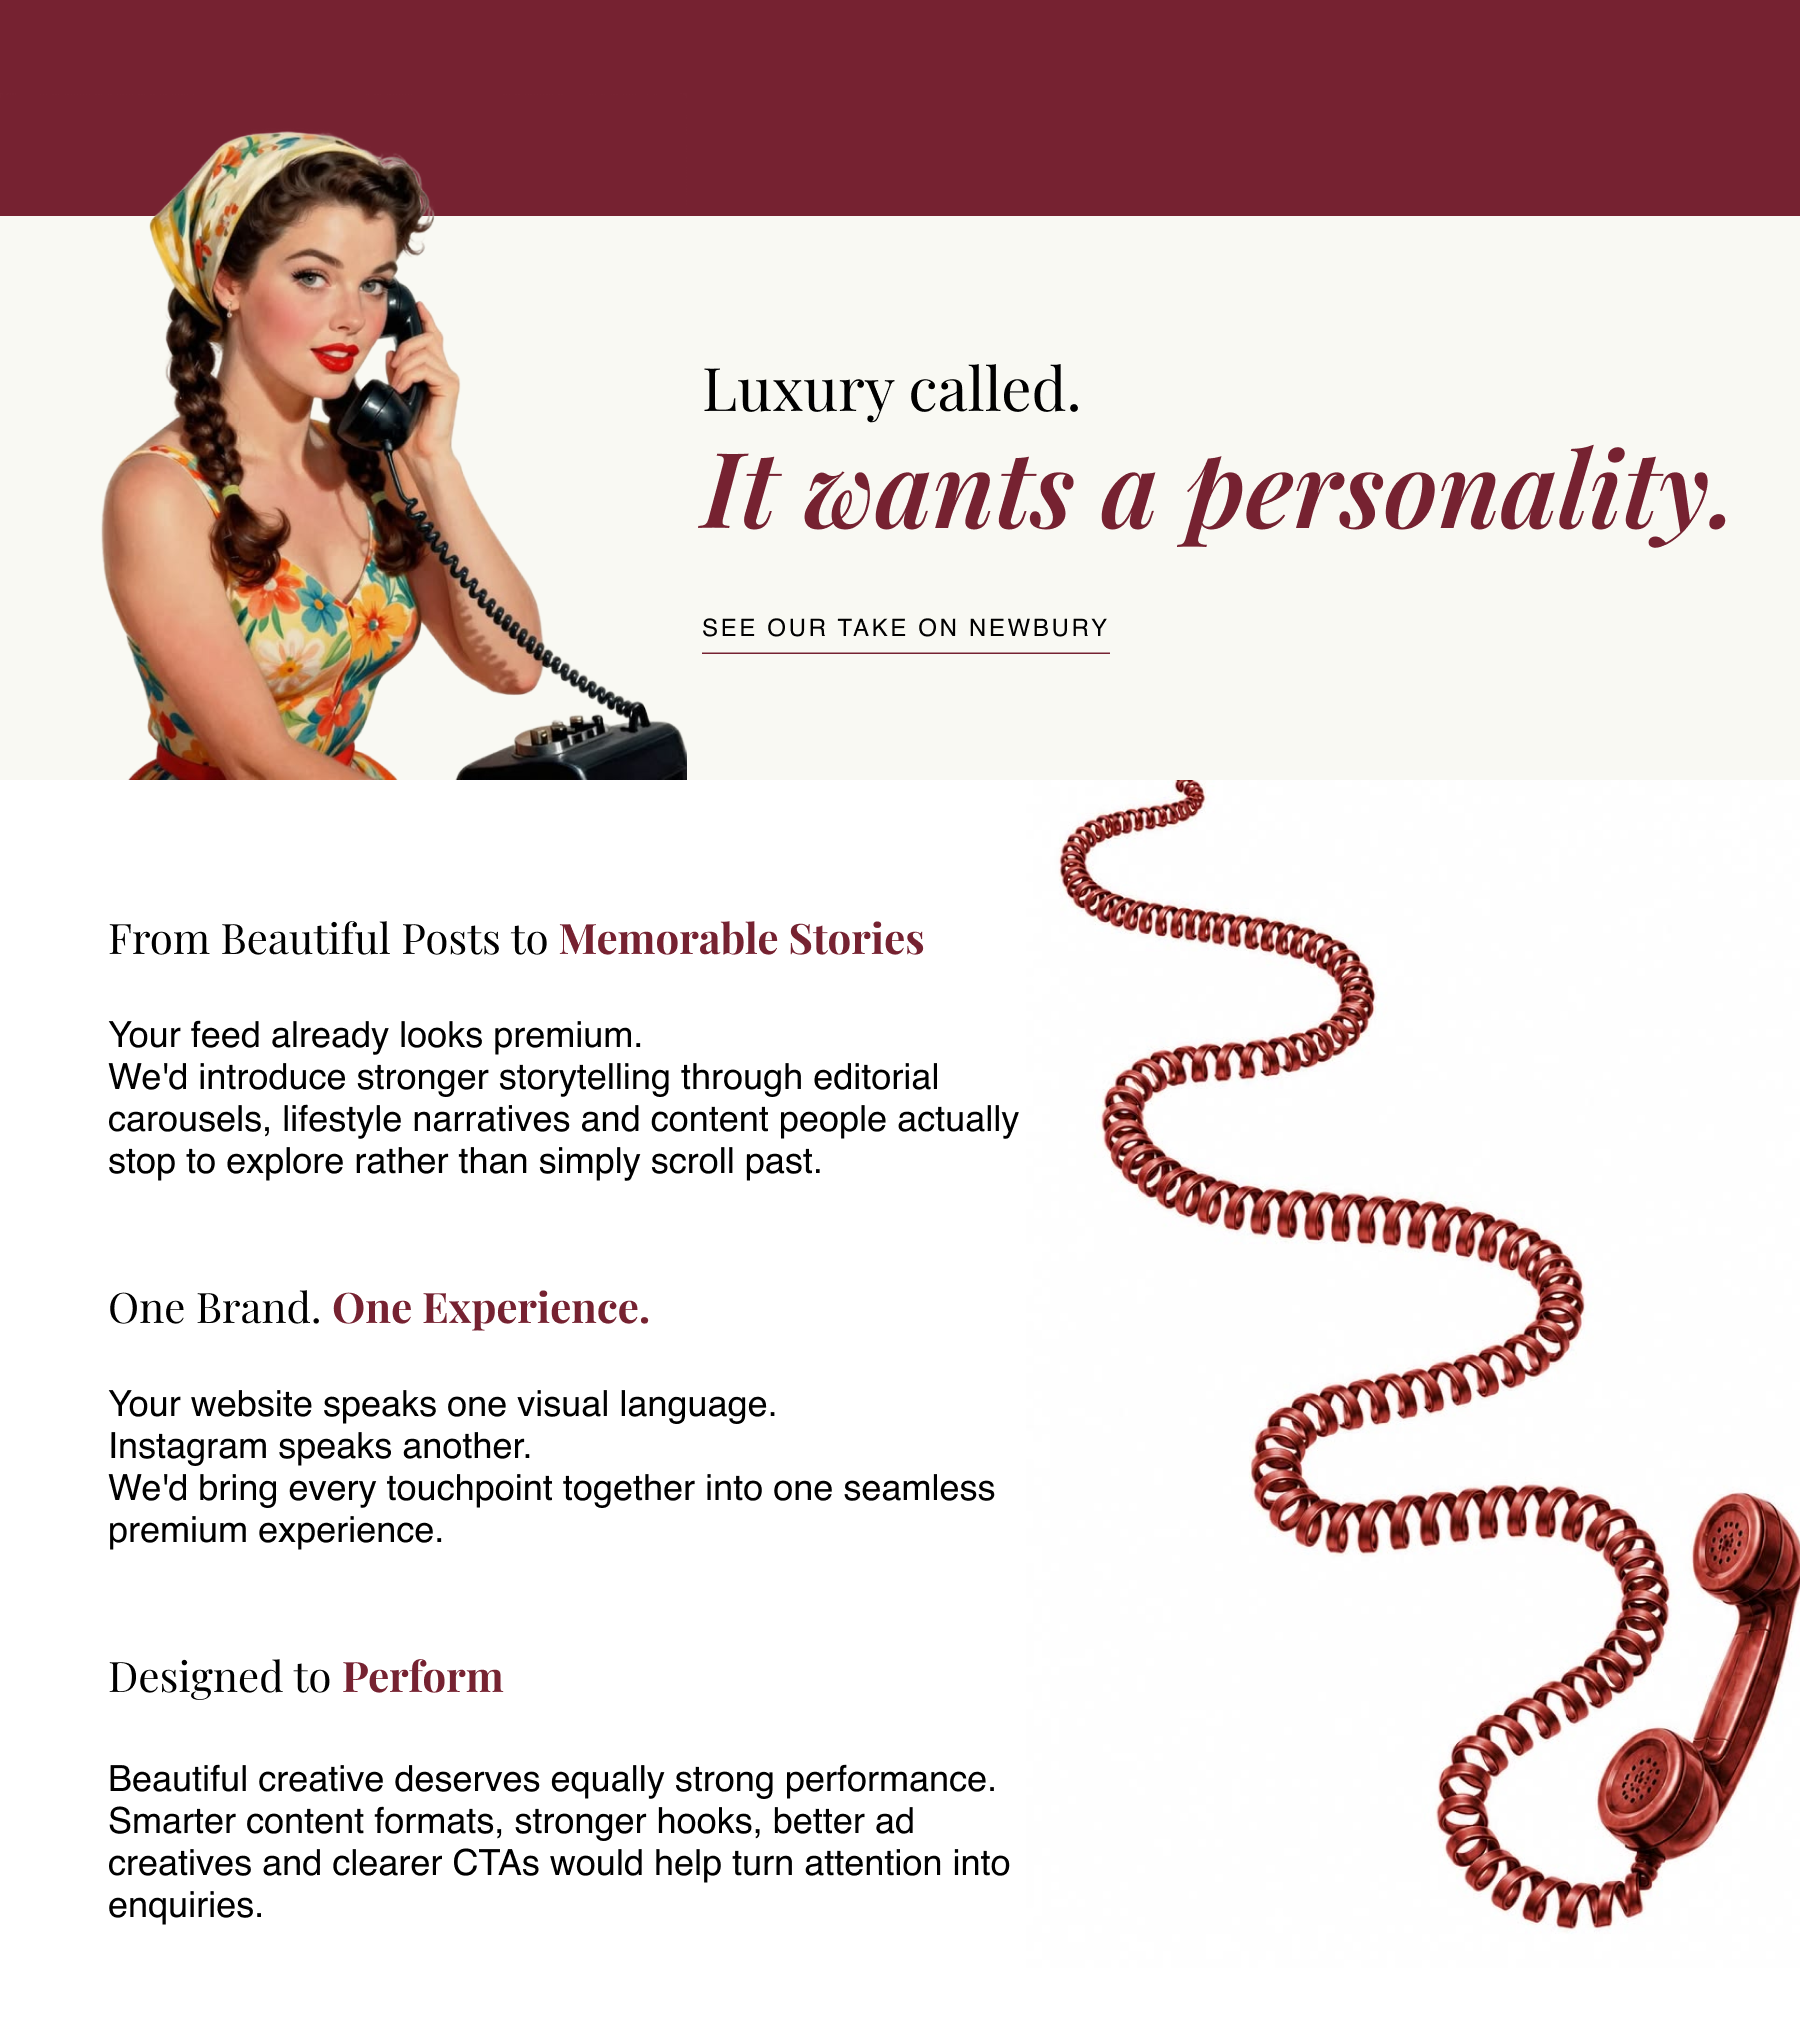
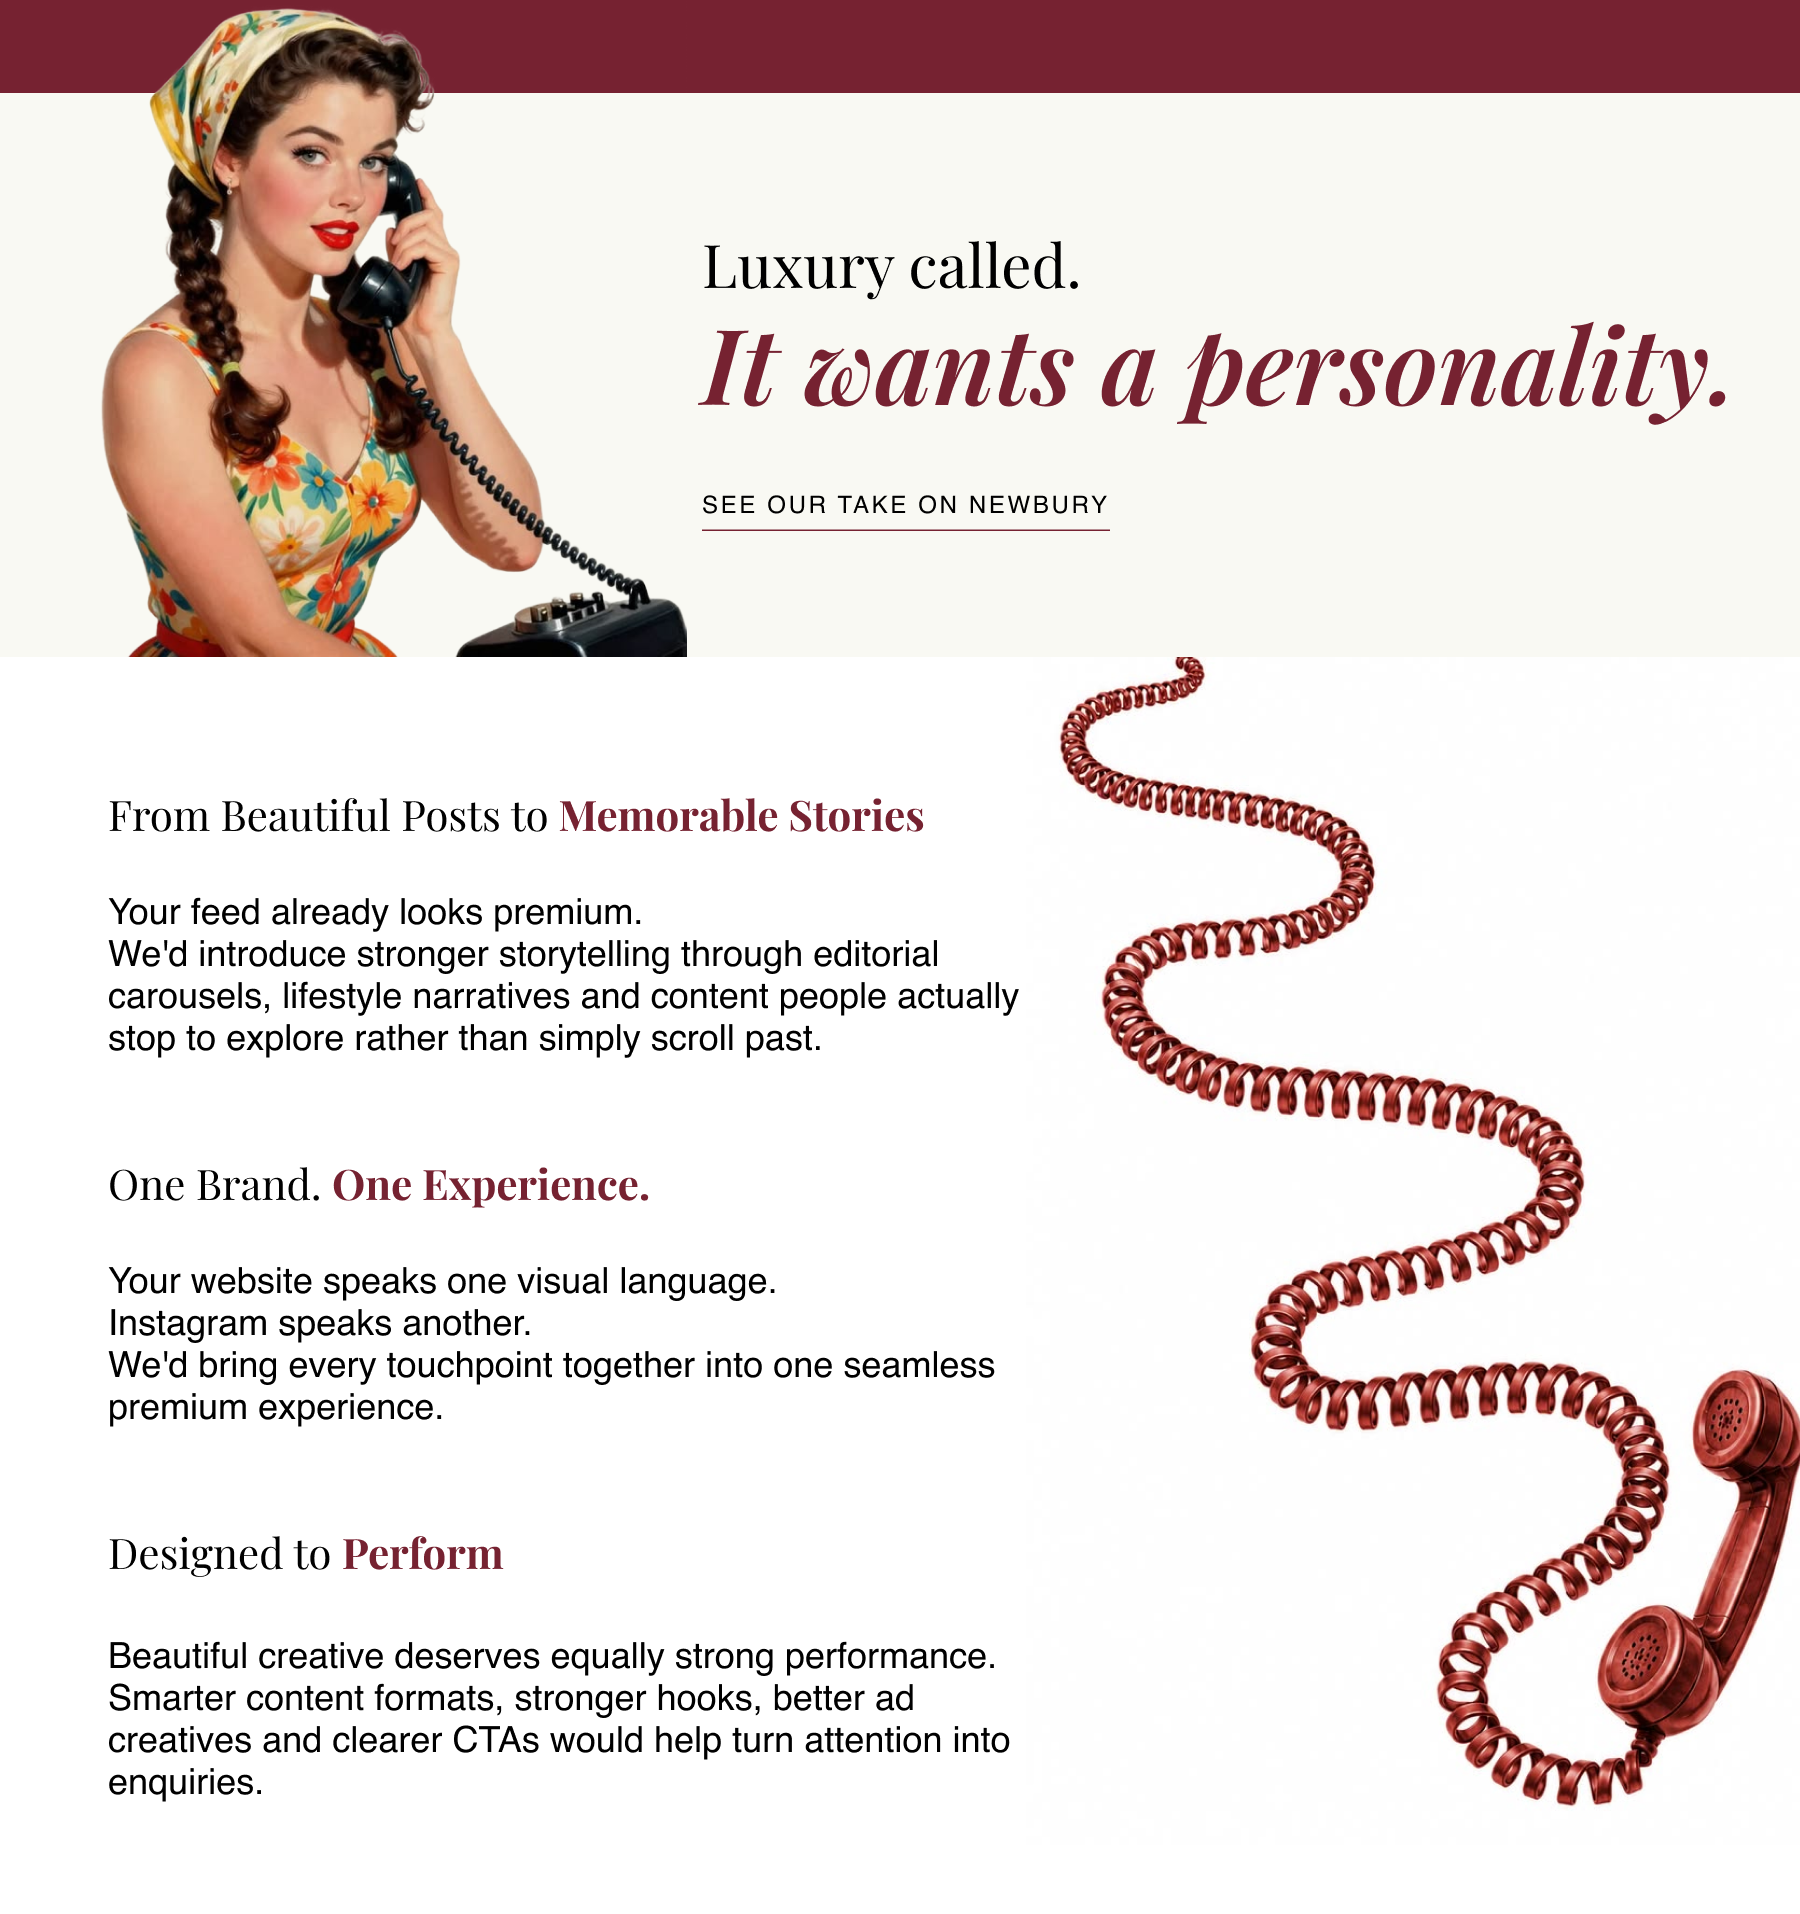
navbar added

diff --git a/tms-emailer.html b/tms-emailer.html
@@ -78,6 +78,57 @@ table, td { font-family: Arial, sans-serif; }
         <table role="presentation" class="email-container" width="600" cellpadding="0" cellspacing="0" border="0"
           align="center" style="width:600px; max-width:600px; background-color:#f4f1ea;overflow:hidden;">
 
+          <!-- Navbar --> 
+          <tr>
+            <td style="background-color:#762231; padding:20px 24px;">
+              <table role="presentation" width="100%" cellpadding="0" cellspacing="0" border="0">
+                <tr>
+                  <!-- Left links -->
+                  <td width="33%" align="left" valign="middle" style="vertical-align:middle;">
+                    <table role="presentation" cellpadding="0" cellspacing="0" border="0">
+                      <tr>
+                        <td valign="middle"
+                          style="vertical-align:middle; font-family:Arial, sans-serif; font-size:14px; line-height:22px; padding-right:20px;">
+                          <a href="https://themarketingsocials.com/about"
+                            style="color:#f4f1ea; text-decoration:none;">About</a>
+                        </td>
+                        <td valign="middle"
+                          style="vertical-align:middle; font-family:Arial, sans-serif; font-size:14px; line-height:22px;">
+                          <a href="https://themarketingsocials.com/services"
+                            style="color:#f4f1ea; text-decoration:none;">Services</a>
+                        </td>
+                      </tr>
+                    </table>
+                  </td>
+
+                  <!-- Center logo -->
+                  <td width="34%" align="center" valign="middle" style="vertical-align:middle;">
+                    <img src="tms-logo.png" width="150" alt="The Marketing Socials"
+                      style="display:block; width:150px; max-width:150px; height:auto; border:0; margin:0 auto;">
+                  </td>
+
+                  <!-- Right links -->
+                  <td width="33%" align="right" valign="middle" style="vertical-align:middle;">
+                    <table role="presentation" cellpadding="0" cellspacing="0" border="0" align="right">
+                      <tr>
+                        <td valign="middle"
+                          style="vertical-align:middle; font-family:Arial, sans-serif; font-size:14px; line-height:22px; padding-right:20px;">
+                          <a href="https://themarketingsocials.com/projects"
+                            style="color:#f4f1ea; text-decoration:none;">Projects</a>
+                        </td>
+                        <td valign="middle"
+                          style="vertical-align:middle; font-family:Arial, sans-serif; font-size:14px; line-height:22px;">
+                          <a href="https://themarketingsocials.com/contact"
+                            style="color:#f4f1ea; text-decoration:none;">Contact</a>
+                        </td>
+                      </tr>
+                    </table>
+                  </td>
+                </tr>
+              </table>
+            </td>
+          </tr>
+
           <!-- Image 1: hero page (logos, tower photo, title, copy) -->
           <tr>
             <td style="padding:0; line-height:0; font-size:0;">
@@ -94,14 +145,13 @@ table, td { font-family: Arial, sans-serif; }
             </td>
           </tr>
 
-          
 
-           <!-- Image 3: construction milestones + contact -->
+
+          <!-- Image 3: construction milestones + contact -->
           <tr>
             <td style="padding:0; line-height:0; font-size:0;">
-              <img
-                src="third-section.png"
-                width="600" alt="Construction Milestones and Contact Details" class="fluid-img"
+              <img src="third-section.png" width="600" alt="Construction Milestones and Contact Details"
+                class="fluid-img"
                 style="display:block; width:100%; max-width:600px; height:auto; border:0;pointer-events:none; -webkit-user-drag:none; user-select:none;">
             </td>
           </tr>
@@ -110,32 +160,26 @@ table, td { font-family: Arial, sans-serif; }
             <td style="background-color:#762231; padding:28px 24px;" align="center" valign="middle">
 
               <!-- Heading image - replace src with your own -->
-              <img
-                src="emailer-contact-heading.png"
-                width="160" alt="Contact Now"
-                style="display:block; width:145px; max-width:50%; height:auto; border:0; margin:0 auto 6px auto;">
+              <img src="emailer-contact-heading.png" width="160" alt="Contact Now"
+                style="display:block; width:120px; max-width:50%; height:auto; border:0; margin:0 auto 6px auto;">
 
               <table role="presentation" cellpadding="0" cellspacing="0" border="0" align="center">
                 <tr>
                   <td style="padding:10px 12px 0px 12px; text-align:center;">
-                    <a href="tel:+971564093335" style="text-decoration:none;">
-                      <img
-                        src="Instagram.png"
-                        width="22" height="22" alt="Phone" style="display:block; width:22px; height:22px; border:0;">
+                    <a href="https://www.instagram.com/themarketingsocialsofficial" style="text-decoration:none;">
+                      <img src="Instagram.png" width="22" height="22" alt="Phone"
+                        style="display:block; width:22px; height:22px; border:0;">
                     </a>
                   </td>
                   <td style="padding:10px 12px 0px 12px; text-align:center;">
-                    <a href="mailto:sales@signaturedevelopers.ae" style="text-decoration:none;">
-                      <img
-                        src="WhatsApp.png"
-                        width="22" height="22" alt="Email" style="display:block; width:22px; height:22px; border:0;">
+                    <a href="https://wa.me/971507653230" target="_blank" rel="noopener" style="text-decoration:none;">
+                      <img src="WhatsApp.png" width="22" height="22" alt="Email"
+                        style="display:block; width:22px; height:22px; border:0;">
                     </a>
                   </td>
                   <td style="padding:10px 12px 0px 12px; text-align:center;">
-                    <a href="https://www.instagram.com/wresidencesjlt" style="text-decoration:none;">
-                      <img
-                        src="Email.png"
-                        width="22" height="22" alt="Instagram"
+                    <a href="mailto:hello@themarketingsocials.com" style="text-decoration:none;">
+                      <img src="Email.png" width="22" height="22" alt="Instagram"
                         style="display:block; width:22px; height:22px; border:0;">
                     </a>
                   </td>
